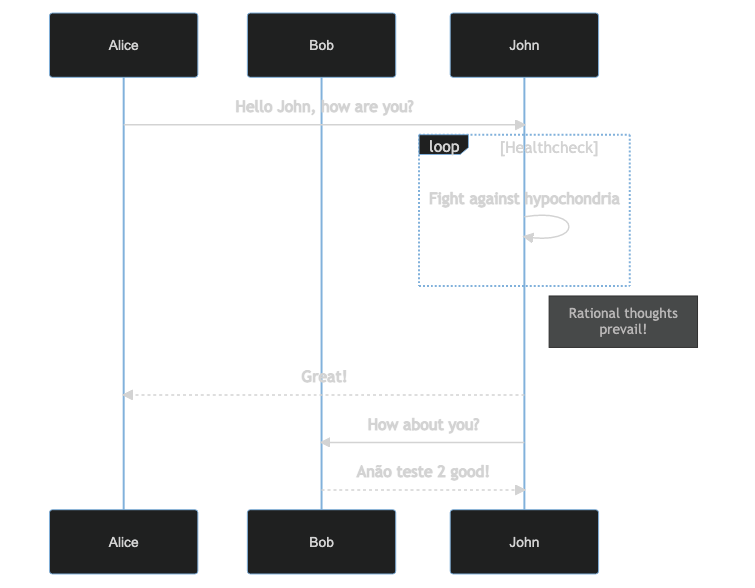
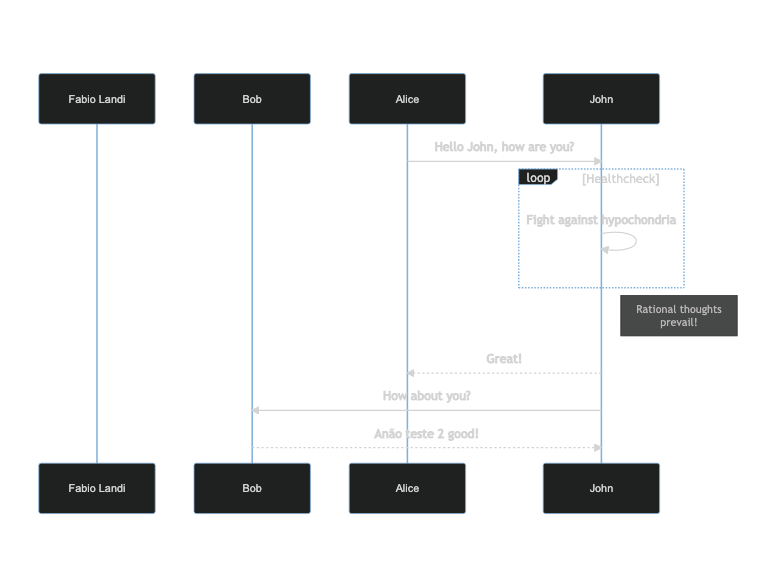
change some-service

diff --git a/diagrams/some-service/some-service.md b/diagrams/some-service/some-service.md
@@ -1,6 +1,6 @@
 ```mermaid
 sequenceDiagram
-    participant Alice
+    participant Fabio Landi
     participant Bob
     Alice->>John: Hello John, how are you?
     loop Healthcheck
